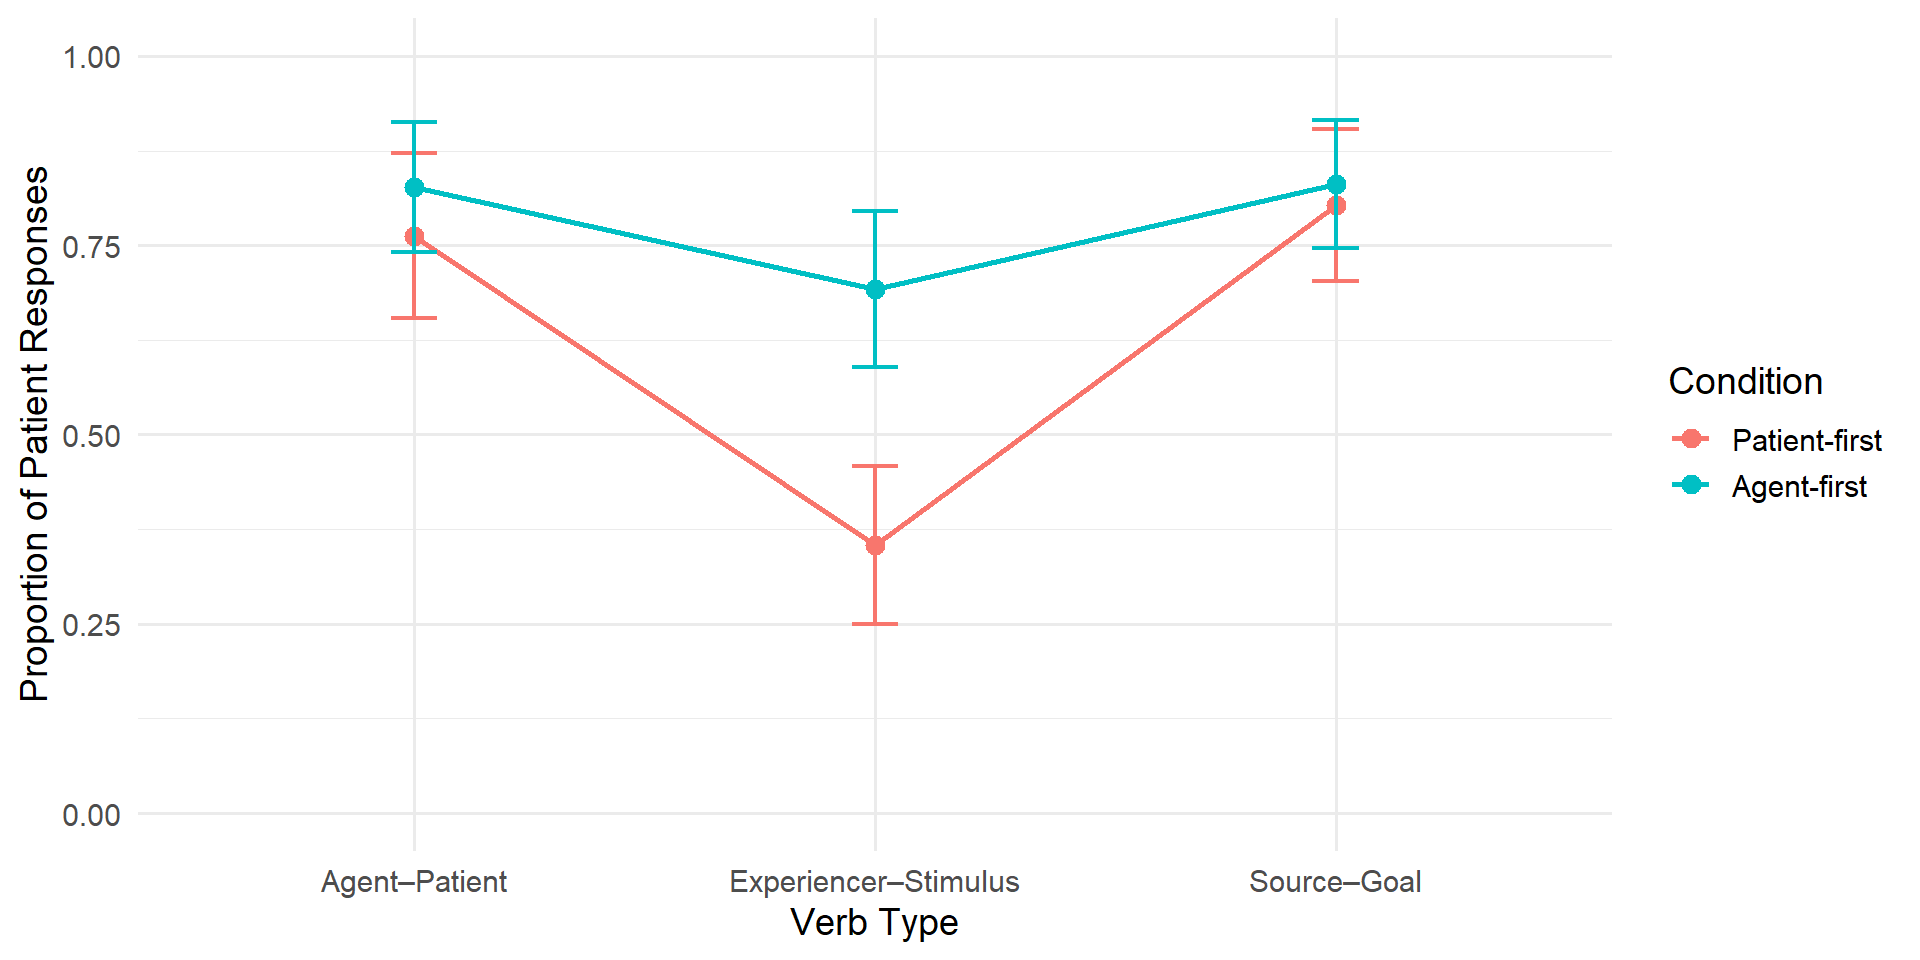
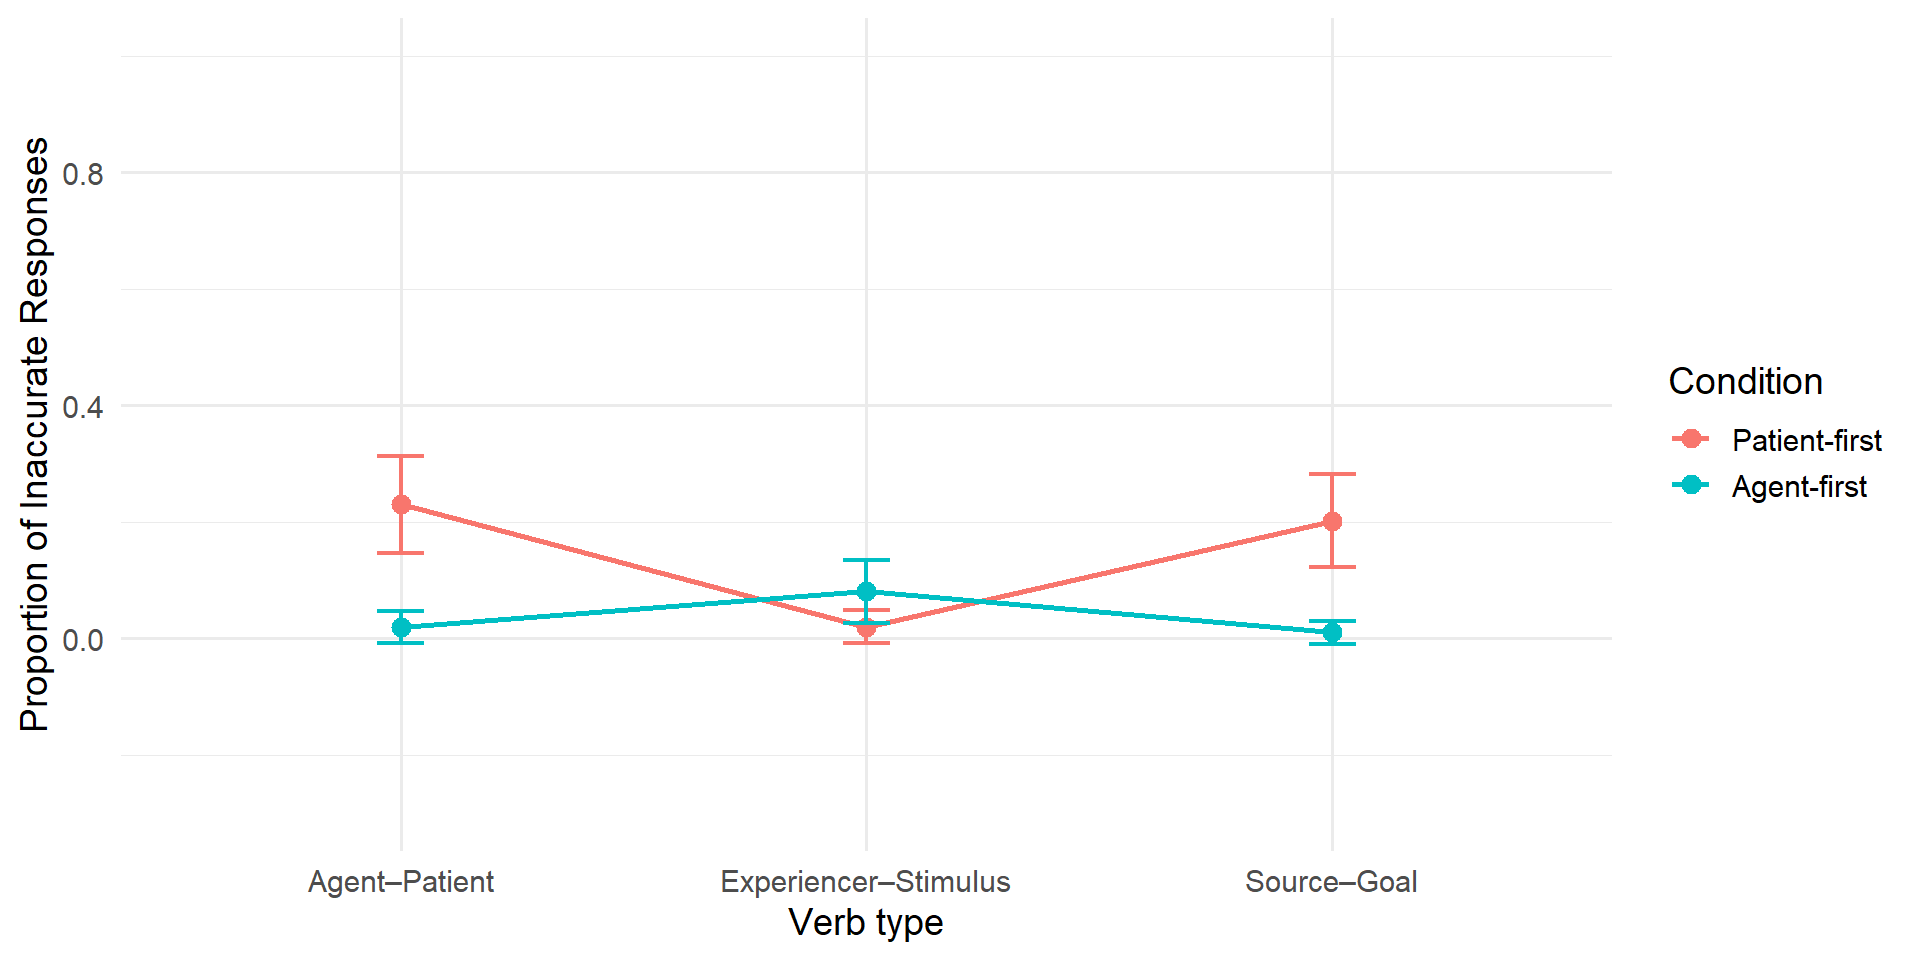
aellk change

diff --git a/aellk/aellk.html b/aellk/aellk.html
@@ -342,10 +342,47 @@ Hyunah Ahn
 <li><p>명준이가 준성이에게 파티 초대장을 보냈다.</p>
 <ul>
 <li>준성이는 일이 있어서 파티에 가지 못했다: patient</li>
+<li>초대장은 간결했다. 희고 질 좋은 종이에…: theme</li>
 </ul></li>
 <li><p>명준이가 준성이에게 파티 초대장을 받았다.</p>
 <ul>
 <li>명준이는 파티에 가고 싶어 흥분된 마음을 감출 수가 없다: patient</li>
+</ul></li>
+</ul>
+</section>
+<section class="slide level2">
+
+<h3 id="inaccurate-data">Inaccurate Data</h3>
+<ul>
+<li>OTHERS
+<ul>
+<li>Thematic role reversion
+<ul>
+<li>강민이가 호영이한테 맞았다. 그래서, 호영이가 화가 났다.</li>
+<li>동욱이가 준영이에게 잡혔다. 준영이가 도둑이고, 동욱이가 경찰이다.</li>
+</ul></li>
+<li>Unclear/ambiguous continuation
+<ul>
+<li>동욱이가 준영이를 잡았다. 나도 알아. 그런 친구가 옆에 있는데 얼마나 다행이니?</li>
+<li>명준이가 준성이에게 파티 초대장을 보냈다. 기쁘다.</li>
+</ul></li>
+</ul></li>
+</ul>
+</section>
+<section class="slide level2">
+
+<h3 id="data-coding">Data Coding</h3>
+<ul>
+<li>Total number of responses: 25 participants x 24 items = 600 responses
+<ul>
+<li>3 no responses</li>
+<li>122 “other” responses removed: inaccurate + unclear (20%)</li>
+<li>Number of responses analyzed: 474</li>
+</ul></li>
+<li>Data coding
+<ul>
+<li>1: patient</li>
+<li>0: agent, both (proto-agent + proto-patient), theme (psych-verbs)</li>
 </ul></li>
 </ul>
 </section>
@@ -366,29 +403,6 @@ Hyunah Ahn
 </ul></li>
 <li><p>R version 4.6.0 (2026-04-24)</p></li>
 <li><p>lmerTest</p></li>
-</ul>
-</section>
-<section class="slide level2">
-
-<h3 id="inaccurate-data">Inaccurate Data</h3>
-<ul>
-<li>OTHERS
-<ul>
-<li>Thematic role reversion</li>
-<li>Unclear/ambiguous continuation</li>
-</ul></li>
-<li>Total number of responses: 25 participants x 24 items = 600 responses
-<ul>
-<li>2 no responses</li>
-<li>122 “other” responses removed: inaccurate + unclear</li>
-<li>1 missing value</li>
-<li>Number of responses analyzed: 474</li>
-</ul></li>
-<li>Data coding
-<ul>
-<li>1: patient</li>
-<li>0: agent, both (proto-agent + proto-patient), theme (psych-verbs)</li>
-</ul></li>
 </ul>
 </section></section>
 <section>
@@ -430,10 +444,34 @@ Hyunah Ahn
 </tr></tbody></table>
 
 </div>
-<div class="cell-output cell-output-stdout">
-<pre><code>
-        0         1 
-0.3621053 0.6378947 </code></pre>
+</div>
+<div class="spacer">
+
+</div>
+<h4 id="responses-starting-with-proto-agent-vs.-proto-patient">Responses starting with Proto-Agent vs.&nbsp;Proto-Patient</h4>
+<div class="cell">
+<div class="cell-output-display">
+<table class="caption-top">
+<thead>
+<tr class="header">
+<th style="text-align: left;">Responses</th>
+<th style="text-align: right;">Count</th>
+<th style="text-align: right;">Percentage</th>
+</tr>
+</thead>
+<tbody>
+<tr class="odd">
+<td style="text-align: left;">Agent-related</td>
+<td style="text-align: right;">172</td>
+<td style="text-align: right;">36.2</td>
+</tr>
+<tr class="even">
+<td style="text-align: left;">Patient-related</td>
+<td style="text-align: right;">303</td>
+<td style="text-align: right;">63.8</td>
+</tr>
+</tbody>
+</table>
 </div>
 </div>
 </section>
@@ -441,83 +479,148 @@ Hyunah Ahn
 
 <h3 id="more-patient-related-responses-for-stimulus-first-psych-verbs">More Patient-related Responses for Stimulus-first Psych-verbs</h3>
 
-<img data-src="aellk_files/figure-revealjs/unnamed-chunk-8-1.png" width="960" class="r-stretch"></section>
+<img data-src="aellk_files/figure-revealjs/unnamed-chunk-9-1.png" width="960" class="r-stretch"></section>
+<section class="slide level2">
+
+<h3 id="interaction-between-condition-and-verb-type">Interaction between Condition and Verb Type</h3>
+<div class="cell">
+<div class="cell-output-display">
+<table class="caption-top">
+<thead>
+<tr class="header">
+<th style="text-align: left;"></th>
+<th style="text-align: right;">Estimate</th>
+<th style="text-align: right;">SE</th>
+<th style="text-align: right;">z</th>
+<th style="text-align: right;">p</th>
+</tr>
+</thead>
+<tbody>
+<tr class="odd">
+<td style="text-align: left;">Intercept</td>
+<td style="text-align: right;">0.863</td>
+<td style="text-align: right;">0.324</td>
+<td style="text-align: right;">2.666</td>
+<td style="text-align: right;">0.008</td>
+</tr>
+<tr class="even">
+<td style="text-align: left;">Condition (Agent-first)</td>
+<td style="text-align: right;">0.107</td>
+<td style="text-align: right;">0.371</td>
+<td style="text-align: right;">0.288</td>
+<td style="text-align: right;">0.773</td>
+</tr>
+<tr class="odd">
+<td style="text-align: left;">Psych Verbs</td>
+<td style="text-align: right;">-1.534</td>
+<td style="text-align: right;">0.393</td>
+<td style="text-align: right;">-3.902</td>
+<td style="text-align: right;">0.000</td>
+</tr>
+<tr class="even">
+<td style="text-align: left;">Dative Verbs</td>
+<td style="text-align: right;">0.028</td>
+<td style="text-align: right;">0.404</td>
+<td style="text-align: right;">0.069</td>
+<td style="text-align: right;">0.945</td>
+</tr>
+<tr class="odd">
+<td style="text-align: left;">Condition × Psych</td>
+<td style="text-align: right;">1.318</td>
+<td style="text-align: right;">0.510</td>
+<td style="text-align: right;">2.582</td>
+<td style="text-align: right;">0.010</td>
+</tr>
+<tr class="even">
+<td style="text-align: left;">Condition × Dative</td>
+<td style="text-align: right;">0.224</td>
+<td style="text-align: right;">0.525</td>
+<td style="text-align: right;">0.426</td>
+<td style="text-align: right;">0.670</td>
+</tr>
+</tbody>
+</table>
+</div>
+</div>
+<ul>
+<li>Proto-patient related responses decrease with psych verbs.</li>
+<li>The psych-verb related decrease is modulated when the stimulus starts with a proto-agent.</li>
+<li>More patient responses with 성호가 민욱이를 귀찮게 한다 than 귀찮아 한다.</li>
+</ul>
+</section>
 <section class="slide level2">
 
 <h3 id="inaccuracy-rates-by-verb-type-and-condition">Inaccuracy Rates by Verb Type and Condition</h3>
 
-<img data-src="aellk_files/figure-revealjs/unnamed-chunk-9-1.png" width="960" class="r-stretch"></section>
+<img data-src="aellk_files/figure-revealjs/unnamed-chunk-11-1.png" width="960" class="r-stretch"></section>
 <section class="slide level2">
 
 <h3 id="more-errors-when-stimuli-present-patients-first">More Errors when Stimuli Present Patients First</h3>
 <div class="cell">
 <div class="cell-output-display">
-<table style="border-collapse:collapse; border:none;">
-<tbody><tr>
-<th style="border-top: double; text-align:center; font-style:normal; font-weight:bold; padding:0.2cm;  text-align:left; ">&nbsp;</th>
-<th colspan="3" style="border-top: double; text-align:center; font-style:normal; font-weight:bold; padding:0.2cm; ">confusion</th>
+<table class="caption-top">
+<thead>
+<tr class="header">
+<th style="text-align: left;"></th>
+<th style="text-align: right;">Estimate</th>
+<th style="text-align: right;">SE</th>
+<th style="text-align: right;">z</th>
+<th style="text-align: right;">p</th>
 </tr>
-<tr>
-<td style=" text-align:center; border-bottom:1px solid; font-style:italic; font-weight:normal;  text-align:left; ">Predictors</td>
-<td style=" text-align:center; border-bottom:1px solid; font-style:italic; font-weight:normal;  ">Odds Ratios</td>
-<td style=" text-align:center; border-bottom:1px solid; font-style:italic; font-weight:normal;  ">CI</td>
-<td style=" text-align:center; border-bottom:1px solid; font-style:italic; font-weight:normal;  ">p</td>
+</thead>
+<tbody>
+<tr class="odd">
+<td style="text-align: left;">Intercept</td>
+<td style="text-align: right;">-1.689</td>
+<td style="text-align: right;">0.471</td>
+<td style="text-align: right;">-3.589</td>
+<td style="text-align: right;">0.000</td>
 </tr>
-<tr>
-<td style=" padding:0.2cm; text-align:left; vertical-align:top; text-align:left; ">(Intercept)</td>
-<td style=" padding:0.2cm; text-align:left; vertical-align:top; text-align:center;  ">0.18</td>
-<td style=" padding:0.2cm; text-align:left; vertical-align:top; text-align:center;  ">0.07&nbsp;–&nbsp;0.46</td>
-<td style=" padding:0.2cm; text-align:left; vertical-align:top; text-align:center;  "><strong>&lt;0.001</strong></td>
+<tr class="even">
+<td style="text-align: left;">Condition (Agent-first)</td>
+<td style="text-align: right;">-3.168</td>
+<td style="text-align: right;">0.813</td>
+<td style="text-align: right;">-3.897</td>
+<td style="text-align: right;">0.000</td>
 </tr>
-<tr>
-<td style=" padding:0.2cm; text-align:left; vertical-align:top; text-align:left; ">condition [2]</td>
-<td style=" padding:0.2cm; text-align:left; vertical-align:top; text-align:center;  ">0.04</td>
-<td style=" padding:0.2cm; text-align:left; vertical-align:top; text-align:center;  ">0.01&nbsp;–&nbsp;0.21</td>
-<td style=" padding:0.2cm; text-align:left; vertical-align:top; text-align:center;  "><strong>&lt;0.001</strong></td>
+<tr class="odd">
+<td style="text-align: left;">Psych Verbs</td>
+<td style="text-align: right;">-3.148</td>
+<td style="text-align: right;">0.860</td>
+<td style="text-align: right;">-3.663</td>
+<td style="text-align: right;">0.000</td>
 </tr>
-<tr>
-<td style=" padding:0.2cm; text-align:left; vertical-align:top; text-align:left; ">type [sees]</td>
-<td style=" padding:0.2cm; text-align:left; vertical-align:top; text-align:center;  ">0.04</td>
-<td style=" padding:0.2cm; text-align:left; vertical-align:top; text-align:center;  ">0.01&nbsp;–&nbsp;0.23</td>
-<td style=" padding:0.2cm; text-align:left; vertical-align:top; text-align:center;  "><strong>&lt;0.001</strong></td>
+<tr class="even">
+<td style="text-align: left;">Dative Verbs</td>
+<td style="text-align: right;">-0.211</td>
+<td style="text-align: right;">0.483</td>
+<td style="text-align: right;">-0.436</td>
+<td style="text-align: right;">0.663</td>
 </tr>
-<tr>
-<td style=" padding:0.2cm; text-align:left; vertical-align:top; text-align:left; ">type [sggs]</td>
-<td style=" padding:0.2cm; text-align:left; vertical-align:top; text-align:center;  ">0.81</td>
-<td style=" padding:0.2cm; text-align:left; vertical-align:top; text-align:center;  ">0.31&nbsp;–&nbsp;2.09</td>
-<td style=" padding:0.2cm; text-align:left; vertical-align:top; text-align:center;  ">0.663</td>
+<tr class="odd">
+<td style="text-align: left;">Condition × Psych</td>
+<td style="text-align: right;">4.798</td>
+<td style="text-align: right;">1.187</td>
+<td style="text-align: right;">4.043</td>
+<td style="text-align: right;">0.000</td>
 </tr>
-<tr>
-<td style=" padding:0.2cm; text-align:left; vertical-align:top; text-align:left; ">condition [2] × type<br>[sees]</td>
-<td style=" padding:0.2cm; text-align:left; vertical-align:top; text-align:center;  ">121.31</td>
-<td style=" padding:0.2cm; text-align:left; vertical-align:top; text-align:center;  ">11.85&nbsp;–&nbsp;1242.38</td>
-<td style=" padding:0.2cm; text-align:left; vertical-align:top; text-align:center;  "><strong>&lt;0.001</strong></td>
+<tr class="even">
+<td style="text-align: left;">Condition × Dative</td>
+<td style="text-align: right;">-0.455</td>
+<td style="text-align: right;">1.322</td>
+<td style="text-align: right;">-0.344</td>
+<td style="text-align: right;">0.731</td>
 </tr>
-<tr>
-<td style=" padding:0.2cm; text-align:left; vertical-align:top; text-align:left; ">condition [2] × type<br>[sggs]</td>
-<td style=" padding:0.2cm; text-align:left; vertical-align:top; text-align:center;  ">0.63</td>
-<td style=" padding:0.2cm; text-align:left; vertical-align:top; text-align:center;  ">0.05&nbsp;–&nbsp;8.47</td>
-<td style=" padding:0.2cm; text-align:left; vertical-align:top; text-align:center;  ">0.731</td>
-</tr>
-
-<tr>
-<td style=" padding:0.2cm; text-align:left; vertical-align:top; text-align:left; padding-top:0.1cm; padding-bottom:0.1cm;">N <sub>participant</sub></td>
-<td style=" padding:0.2cm; text-align:left; vertical-align:top; padding-top:0.1cm; padding-bottom:0.1cm; text-align:left;" colspan="3">25</td>
-
-</tr><tr>
-<td style=" padding:0.2cm; text-align:left; vertical-align:top; text-align:left; padding-top:0.1cm; padding-bottom:0.1cm;">N <sub>item</sub></td>
-<td style=" padding:0.2cm; text-align:left; vertical-align:top; padding-top:0.1cm; padding-bottom:0.1cm; text-align:left;" colspan="3">24</td>
-
-</tr></tbody></table>
-
+</tbody>
+</table>
 </div>
 </div>
 <div class="spacer">
 
 </div>
 <ul>
-<li>More inaccurate thmematic role assignments in patient-first</li>
-<li>Insignificant difference in psych-predicates</li>
+<li>More inaccurate thematic role assignments in patient-first items</li>
+<li>Condition effects differ across verb types.</li>
 </ul>
 </section></section>
 <section>
@@ -543,6 +646,21 @@ Hyunah Ahn
 </section>
 <section class="slide level2">
 
+<h3 id="is-topic-shift-predictable">Is Topic Shift Predictable?</h3>
+<p>Ahn (2025)’s speculation:</p>
+<ul>
+<li>Shorter reading times (RTs) when topic shift was expected</li>
+<li>Topic shift cases: agent-first and patient-later</li>
+</ul>
+<p>Current study:</p>
+<ul>
+<li>Discourse continuation favors proto-patients</li>
+<li>The proto-patient bias can indicate topic shift/continuation</li>
+<li>Topic shift is guided by proto-patient bias</li>
+</ul>
+</section>
+<section class="slide level2">
+
 <h3 id="good-enough-processing-in-korean">Good-Enough Processing in Korean?</h3>
 <ul>
 <li>Ferreira and colleagues (Ferreira, 2003; Ferreira et al., 2003; Ferreira et al., 2009; Ferreira &amp; Patson, 2007): Rather than accurately processing thematic roles, world knowledge aligned good enough processing
@@ -559,21 +677,6 @@ Hyunah Ahn
 <li>Jane was praised by Jill.</li>
 <li>With no world knowledge bias, agent-first sentences yielded higher accuracy.</li>
 </ul></li>
-</ul>
-</section>
-<section class="slide level2">
-
-<h3 id="is-topic-shift-predictable">Is Topic Shift Predictable?</h3>
-<p>Ahn (2025)’s speculation:</p>
-<ul>
-<li>Shorter reading times (RTs) when topic shift was expected</li>
-<li>Topic shift cases: agent-first and patient-later</li>
-</ul>
-<p>Current study:</p>
-<ul>
-<li>Discourse continuation favors proto-patients</li>
-<li>The proto-patient bias can indicate topic shift/continuation</li>
-<li>Topic shift is guided by proto-patient bias</li>
 </ul>
 </section></section>
 <section id="references" class="title-slide slide level1 center">
